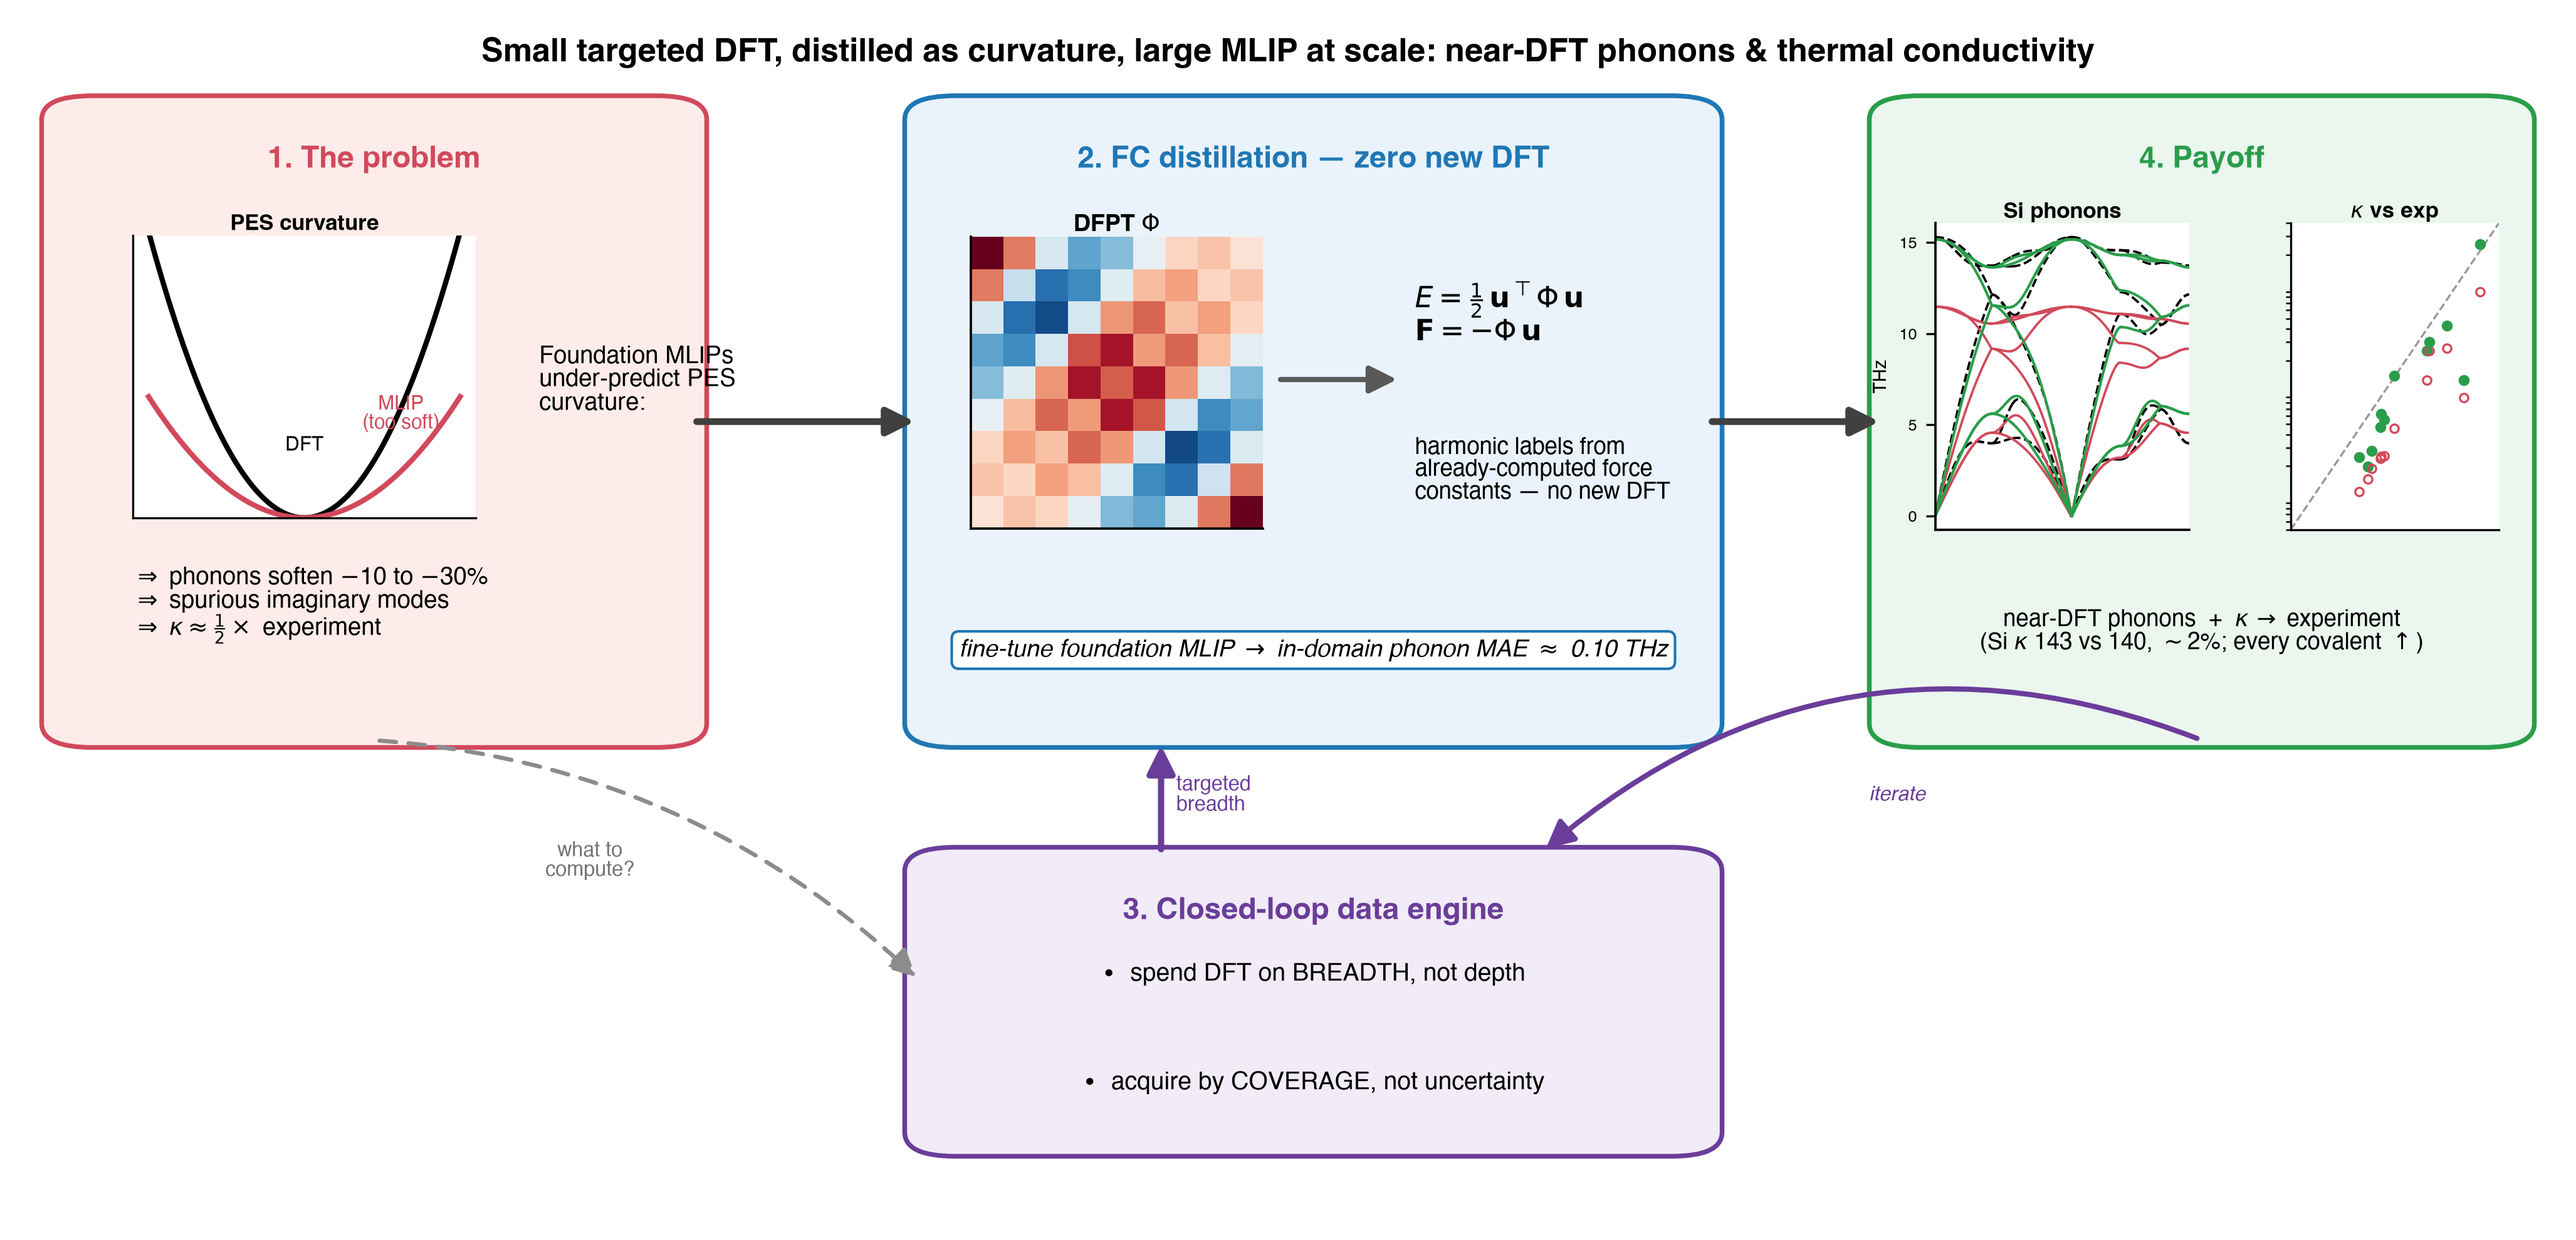
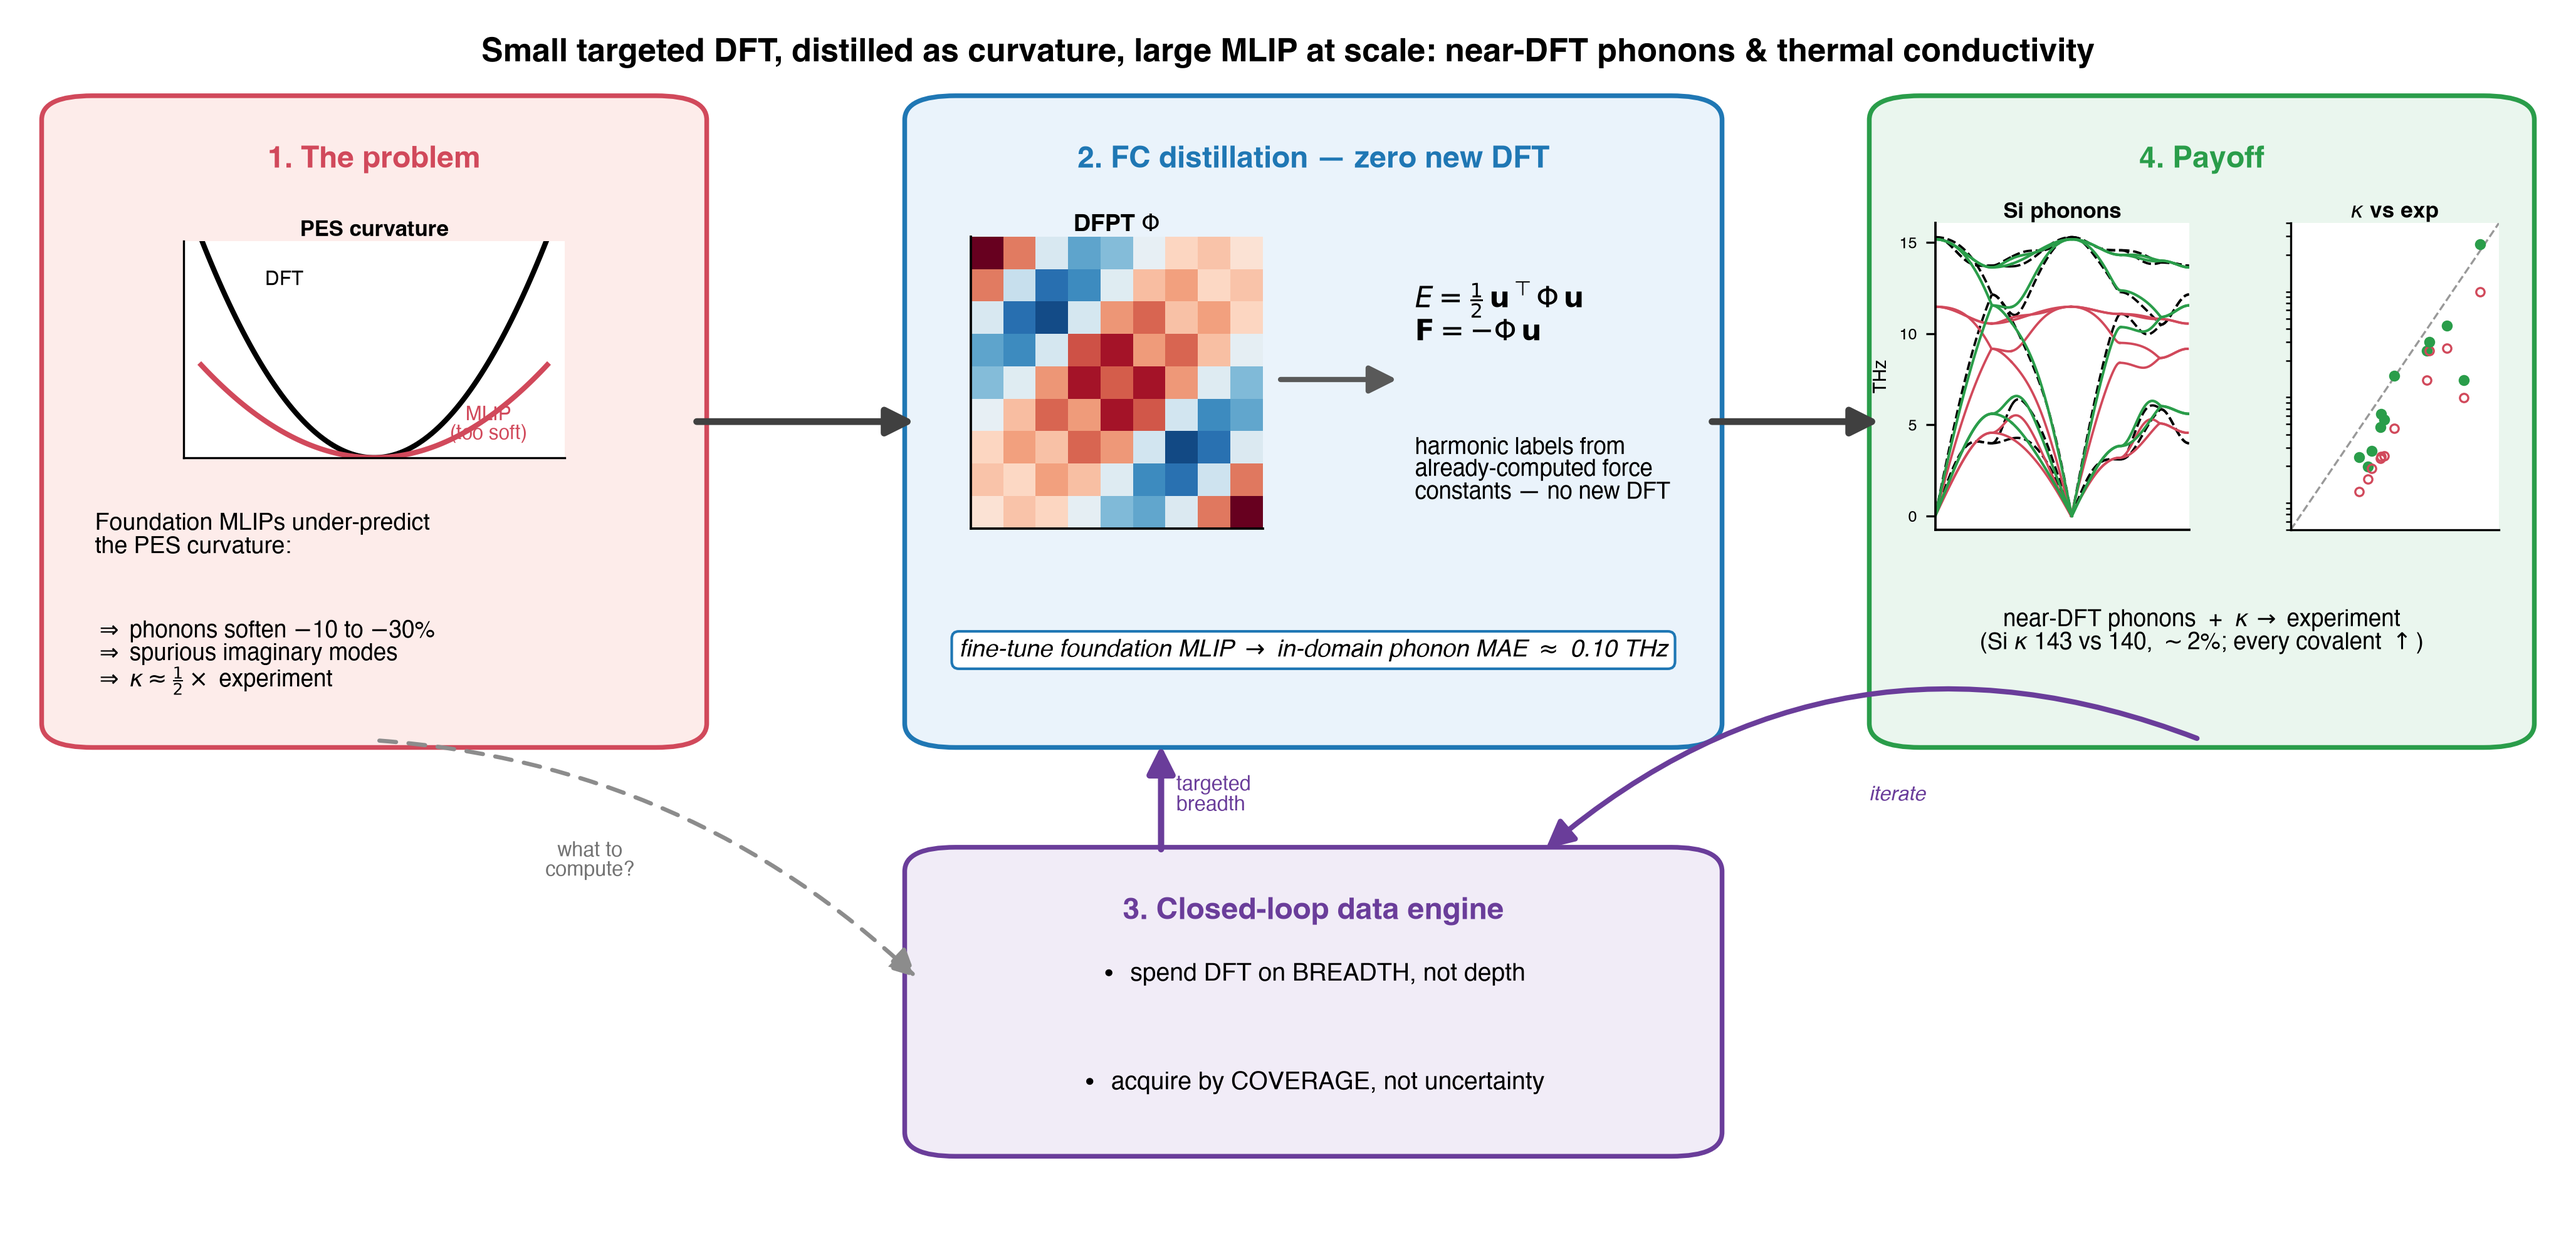
Figures: fix overlaps + fill Fig 3B missing cell (B79×60cfg run on idle H20)
Fig 1: move 'under-predict PES curvature' caption below the inset (was overflowing panel 1 into the arrow gap).
Fig 2b: legend moved below the bars (was overlapping Ge's deep SevenNet bar); Fig 2c: legend moved to the clear upper-right (was covering the acoustic branches).
Fig 3b: ran the previously-missing db_B79_nc60 fine-tune on a free H20 (100.80.123.104) → cell = 1.44 mean held-out MAE, completing the breadth-79 depth row 1.26→1.34→1.44 and reinforcing 'depth hurts at high breadth'. No more n/a cell.
Fig 4a: hand-tuned per-material label offsets to de-collide the mid-low kappa cluster.
SI Fig S1: restyle the anti-forgetting bar chart to match the publication plot_style.
PAPER.md §2.3: cite the now-complete N=79 depth row (1.26→1.34→1.44; N=64 1.33→1.42→1.52). CAMPAIGN_FINDINGS: fill the matching surface cell.
Add results/ablation/eval_db_B79_nc60.csv and scripts/figS1_antiforgetting.py.

Changed region(s): [[0.0311, 0.2157, 0.2803, 0.5545], [0.0934, 0.154, 0.1869, 0.2157]]

diff --git a/scripts/figS1_antiforgetting.py b/scripts/figS1_antiforgetting.py
@@ -1,0 +1,62 @@
+"""Supplementary Figure S1 — anti-forgetting strategies (held-out transfer, seed
+error bars), restyled to match the main-figure publication style.
+
+Regenerates results/figures/antiforgetting_errorbars.png from the ablation eval CSVs.
+"""
+from __future__ import annotations
+
+import os
+import sys
+from pathlib import Path
+
+import numpy as np
+import pandas as pd
+
+ROOT = Path(__file__).resolve().parents[1]
+sys.path.insert(0, str(ROOT / "scripts"))
+from plot_style import C, set_style  # noqa: E402
+import matplotlib.pyplot as plt  # noqa: E402
+
+set_style()
+R = ROOT / "results" / "ablation"
+OUT = ROOT / "results" / "figures" / "antiforgetting_errorbars.png"
+
+
+def metrics(job):
+    p = R / f"eval_{job}.csv"
+    if not p.exists():
+        return None
+    d = pd.read_csv(p); d = d[d["error"].fillna("") == ""]
+    f = d[(d.variant == "finetuned") & (d.split == "holdout")]
+    return f.freq_mae.mean() if len(f) else None
+
+
+methods = [("single", "eval_pt0", "single-head"), ("pt1000", "eval_pt1000", "replay pt1k"),
+           ("pt5000", "eval_pt5000", "replay pt5k"), ("lora8", "eval_lora8", "LoRA r8"),
+           ("lora32", "eval_lora32", "LoRA r32")]
+labels, means, stds = [], [], []
+for mode, seed1csv, lab in methods:
+    jobs = []
+    if (R / f"{seed1csv}.csv").exists():
+        jobs.append(seed1csv.replace("eval_", ""))
+    jobs += [f"eb_{mode}_s{s}" for s in (2, 3, 4)]
+    vals = [metrics(j) for j in jobs if metrics(j)]
+    if vals:
+        labels.append(lab); means.append(np.mean(vals)); stds.append(np.std(vals))
+
+# colour LoRA (best family) green, replay neutral, single-head red to echo the story
+colour = {"single-head": C["mace"], "replay pt1k": "#6a8caf", "replay pt5k": "#6a8caf",
+          "LoRA r8": C["finetuned"], "LoRA r32": C["finetuned"]}
+fig, ax = plt.subplots(figsize=(7, 4))
+bars = ax.bar(range(len(labels)), means, yerr=stds, capsize=5,
+              color=[colour.get(l, "tab:blue") for l in labels], alpha=0.9,
+              error_kw=dict(lw=1.2))
+for i, (m, s) in enumerate(zip(means, stds)):
+    ax.text(i, m + s + 0.05, f"{m:.2f}", ha="center", va="bottom", fontsize=8.5)
+ax.set_xticks(range(len(labels))); ax.set_xticklabels(labels)
+ax.set_ylabel("held-out transfer MAE (THz)")
+ax.set_title("Anti-forgetting: replay and LoRA prevent catastrophic forgetting")
+ax.set_ylim(0, max(np.array(means) + np.array(stds)) + 0.35)
+ax.grid(True, axis="y")
+fig.savefig(OUT)
+print("wrote", OUT, list(zip(labels, [round(m, 2) for m in means])))

diff --git a/scripts/fig1_overview.py b/scripts/fig1_overview.py
@@ -55,25 +55,24 @@ block(0.015, PY0, 0.265, PY1, "prob", "1. The problem")
 block(0.355, PY0, 0.665, PY1, "meth", "2. FC distillation — zero new DFT")
 block(0.735, PY0, 0.985, PY1, "pay", "4. Payoff")
 
-# ---- [A] problem: PES curvature inset + caption ----
-axp = ax.inset_axes([0.045, 0.585, 0.135, 0.235])
+# ---- [A] problem: PES curvature inset (top) + caption stacked below ----
+axp = ax.inset_axes([0.065, 0.635, 0.15, 0.18])
 u = np.linspace(-1, 1, 100)
-axp.plot(u, 0.5 * 8.5 * u ** 2, color=C["dfpt"], lw=2, label="DFT")
-axp.plot(u, 0.5 * 3.6 * u ** 2, color=C["mace"], lw=2, label="MLIP")
+axp.plot(u, 0.5 * 8.5 * u ** 2, color=C["dfpt"], lw=2)
+axp.plot(u, 0.5 * 3.6 * u ** 2, color=C["mace"], lw=2)
 axp.set_xticks([]); axp.set_yticks([]); axp.set_ylim(0, 4.2)
 axp.set_title("PES curvature", fontsize=8.5, pad=2)
-axp.text(0.0, 1.0, "DFT", color=C["dfpt"], fontsize=7.5, ha="center")
-axp.text(0.62, 1.55, "MLIP\n(too soft)", color=C["mace"], fontsize=7.5, ha="center", va="center")
+axp.text(-0.52, 3.35, "DFT", color=C["dfpt"], fontsize=7.5, ha="center")
+axp.text(0.66, 0.65, "MLIP\n(too soft)", color=C["mace"], fontsize=7.5, ha="center", va="center")
 for s in axp.spines.values():
     s.set_linewidth(0.8)
-ax.text(0.205, 0.70,
-        "Foundation MLIPs\nunder-predict PES\ncurvature:",
-        fontsize=9.2, va="center", ha="left")
-ax.text(0.045, 0.545,
+ax.text(0.03, 0.59, "Foundation MLIPs under-predict\nthe PES curvature:",
+        fontsize=9, va="top", ha="left")
+ax.text(0.03, 0.50,
         r"$\Rightarrow$ phonons soften $-$10 to $-$30%" "\n"
         r"$\Rightarrow$ spurious imaginary modes" "\n"
         r"$\Rightarrow$ $\kappa \approx \frac{1}{2}\times$ experiment",
-        fontsize=9.2, va="top", ha="left")
+        fontsize=8.8, va="top", ha="left")
 
 # ---- [B] FC distillation: Phi matrix inset + equations ----
 axm = ax.inset_axes([0.375, 0.575, 0.115, 0.245])

diff --git a/scripts/fig2_failure_repair.py b/scripts/fig2_failure_repair.py
@@ -56,7 +56,9 @@ axb.axhline(0, color="k", lw=0.8)
 axb.set_xticks(xs); axb.set_xticklabels(mats)
 axb.set_ylabel(r"$\omega_{\max}$ softening vs DFPT (%)")
 axb.set_title("Softening is model-universal")
-axb.legend(loc="lower left")
+axb.set_ylim(-42, 2)  # headroom below the deepest bar (Ge −34) for the legend
+axb.legend(loc="lower center", ncol=2, fontsize=8, columnspacing=1.2,
+           handlelength=1.4, handletextpad=0.5)
 panel(axb, "b")
 
 # ---- (c) Si dispersion before/after ----
@@ -75,6 +77,7 @@ for b in d["boundaries"]:
     axc.axvline(float(b), color="0.85", lw=0.7, zorder=0)
 axc.axhline(0, color="0.6", lw=0.7)
 axc.set_xlim(float(d["boundaries"][0]), float(d["boundaries"][-1]))
+axc.set_ylim(0, 18)  # headroom above the optical branches (~15.3) for the legend
 axc.set_ylabel("frequency (THz)")
 axc.set_xlabel("wave vector")
 axc.set_xticks([])
@@ -82,7 +85,8 @@ axc.set_title("Si: softened baseline, repaired by distillation")
 handles = [Line2D([], [], color=C["dfpt"], ls="--", lw=1.3, label="DFPT (reference)"),
            Line2D([], [], color=C["mace"], lw=1.4, label="MACE-MP-0 (baseline)"),
            Line2D([], [], color=C["finetuned"], lw=1.6, label="FC-distilled")]
-axc.legend(handles=handles, loc="lower center")
+axc.legend(handles=handles, loc="upper right", frameon=True, framealpha=0.92,
+           facecolor="white", edgecolor="none", fontsize=8)
 panel(axc, "c")
 
 out = FIG / "fig2_failure_repair.png"

diff --git a/scripts/fig4_kappa.py b/scripts/fig4_kappa.py
@@ -39,6 +39,10 @@ for f in glob.glob(str(R / "sc4_*.json")):
         pass
 lim = [5, 4000]
 axa.plot(lim, lim, "--", color="0.5", lw=1, label="y = x (experiment)")
+# hand-tuned label offsets (points) to avoid collisions in the crowded mid-low cluster
+OFF = {"Si": (-17, 5), "C": (-13, 4), "BN": (1, 8), "SiC": (-24, 5), "BP": (3, -12),
+       "BAs": (7, -3), "AlAs": (-31, 6), "GaP": (8, 2), "AlP": (3, -12),
+       "InP": (7, 5), "Ge": (-8, -13), "GaAs": (-31, 0), "Sn": (-19, 6)}
 for mm, v in r.items():
     e = EXP.get(mm)
     if not e:
@@ -49,7 +53,8 @@ for mm, v in r.items():
         axa.plot(e, v["base"], "o", mfc="none", mec=C["baseline"], ms=7, zorder=2)
     if "ft" in v:
         axa.plot(e, v["ft"], "o", color=C["finetuned"], ms=7, zorder=3)
-        axa.annotate(mm, (e, v["ft"]), textcoords="offset points", xytext=(5, 3), fontsize=7.5)
+        axa.annotate(mm, (e, v["ft"]), textcoords="offset points",
+                     xytext=OFF.get(mm, (5, 3)), fontsize=7.5, zorder=4)
 axa.plot([], [], "o", mfc="none", mec=C["baseline"], label="baseline MLIP")
 axa.plot([], [], "o", color=C["finetuned"], label="FC-distilled")
 axa.set_xscale("log"); axa.set_yscale("log"); axa.set_xlim(lim); axa.set_ylim(lim)

diff --git a/scripts/fig3_data_laws.py b/scripts/fig3_data_laws.py
@@ -82,7 +82,8 @@ grid = np.full((len(BR), len(DEPTHS)), np.nan)
 for i, (k, _) in enumerate(BR):
     for j, (dl, _) in enumerate(DEPTHS):
         grid[i, j] = hold_mae(f"br_{k}_s1") if dl == "nc30" else hold_mae(f"db_{k}_{dl}")
-im = axb.imshow(grid, cmap="viridis_r", aspect="auto")
+cmap = plt.cm.viridis_r.copy(); cmap.set_bad("0.86")  # not-run cells in light gray
+im = axb.imshow(np.ma.masked_invalid(grid), cmap=cmap, aspect="auto")
 axb.set_xticks(range(len(DEPTHS))); axb.set_xticklabels([d[1] for d in DEPTHS])
 axb.set_yticks(range(len(BR))); axb.set_yticklabels([b[1] for b in BR])
 axb.set_xlabel("configs / material  (depth)")
@@ -94,6 +95,8 @@ for i in range(len(BR)):
         if np.isfinite(grid[i, j]):
             axb.text(j, i, f"{grid[i,j]:.2f}", ha="center", va="center", fontsize=8.5,
                      color="white" if grid[i, j] > thr else "black")
+        else:
+            axb.text(j, i, "n/a", ha="center", va="center", fontsize=8, color="0.55")
 cb = fig.colorbar(im, ax=axb, fraction=0.046, pad=0.04)
 cb.set_label("held-out MAE (THz)", fontsize=9)
 panel(axb, "b")

diff --git a/docs/PAPER.md b/docs/PAPER.md
@@ -164,8 +164,9 @@ Transfer error is **flat up to ~16–20 materials, exhibits a knee at ~20–24, 
 to a median ~0.8 THz** (Fig. 3a). We lead with the median because the *mean* is inflated by a single hard
 chemistry: on the held-out set boron nitride alone sits at ~4.5 THz while the other five materials are
 0.3–1.0 THz, so the mean floor (~1.3 THz) overstates the typical residual (median floor ~0.8 THz). Increasing *depth* at fixed breadth does **not** transfer and in
-fact *overfits*: at high breadth, more configurations per material make transfer worse (e.g. N=64: 15
-configs → 1.33; 60 configs → 1.52). The full data-need surface (Fig. 3b) has its minimum at
+fact *overfits*: at high breadth, more configurations per material make transfer worse — at the maximum
+breadth N=79 the depth row rises monotonically (15 configs → 1.26, 30 → 1.34, 60 → 1.44; the same
+up-trend holds at N=64: 1.33 → 1.42 → 1.52). The full data-need surface (Fig. 3b) has its minimum at
 high-breadth + low-depth. The practical rule is therefore to **spend the DFT budget on more materials,
 not on more configurations of each**. The residual floor is set by under-covered light-element,
 high-frequency chemistries (boron nitride above all) — exactly the regime coverage acquisition targets

diff --git a/docs/CAMPAIGN_FINDINGS.md b/docs/CAMPAIGN_FINDINGS.md
@@ -31,11 +31,13 @@ Held-out MAE, breadth (rows) × configs/material (cols):
 | 32 | 1.50 | 1.50 | 1.55 |
 | 48 | 1.35 | 1.37 | 1.45 |
 | 64 | **1.33** | 1.42 | 1.52 |
-| 79 | **1.27** | 1.34 | — |
+| 79 | **1.27** | 1.34 | 1.44 |
 
 **Down (more breadth) = monotonically better; across (more depth) = flat-to-worse, and worse the
 more breadth you have** (overfitting to the training materials). Global min = high-breadth +
-low-depth (N=79/cfg15 = **1.27 THz, still descending**). `results/figures/depth_breadth_surface.png`.
+low-depth (N=79/cfg15 = **1.27 THz, still descending**). The N=79/cfg60 cell (1.44, run later on an
+idle H20) completes the row and confirms depth hurts at high breadth (1.27→1.34→1.44).
+`results/figures/depth_breadth_surface.png`.
 → **Practical law: spend the DFT budget on more materials, fewer configs each.**
 
 ## Result 3 — Anti-forgetting (held-out, seed error bars)
